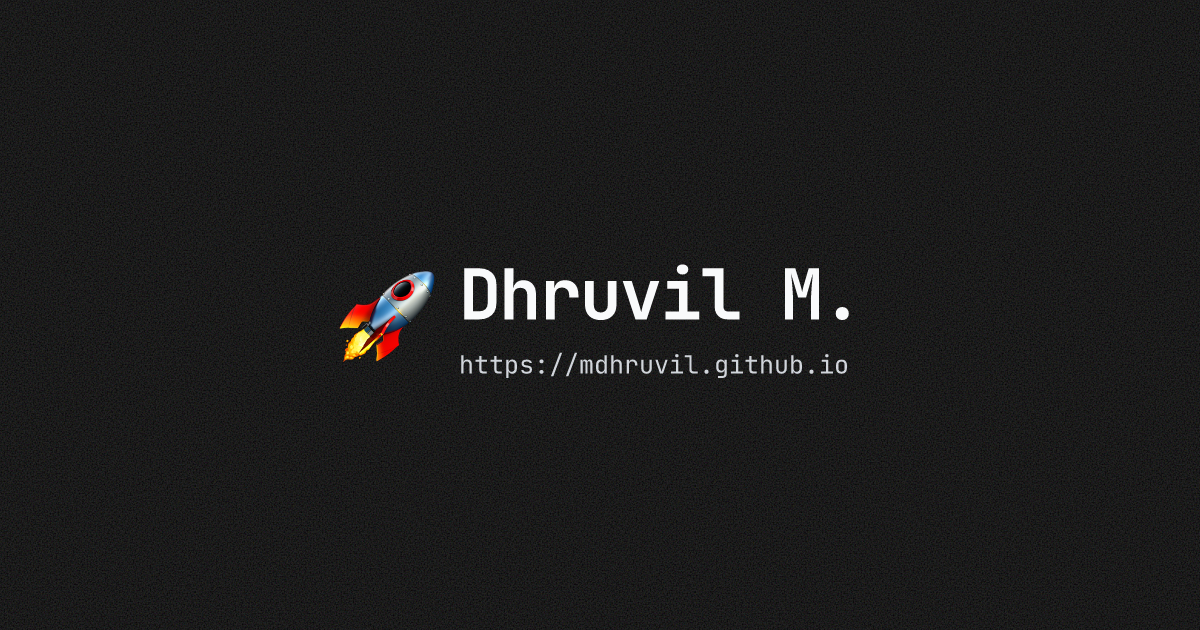
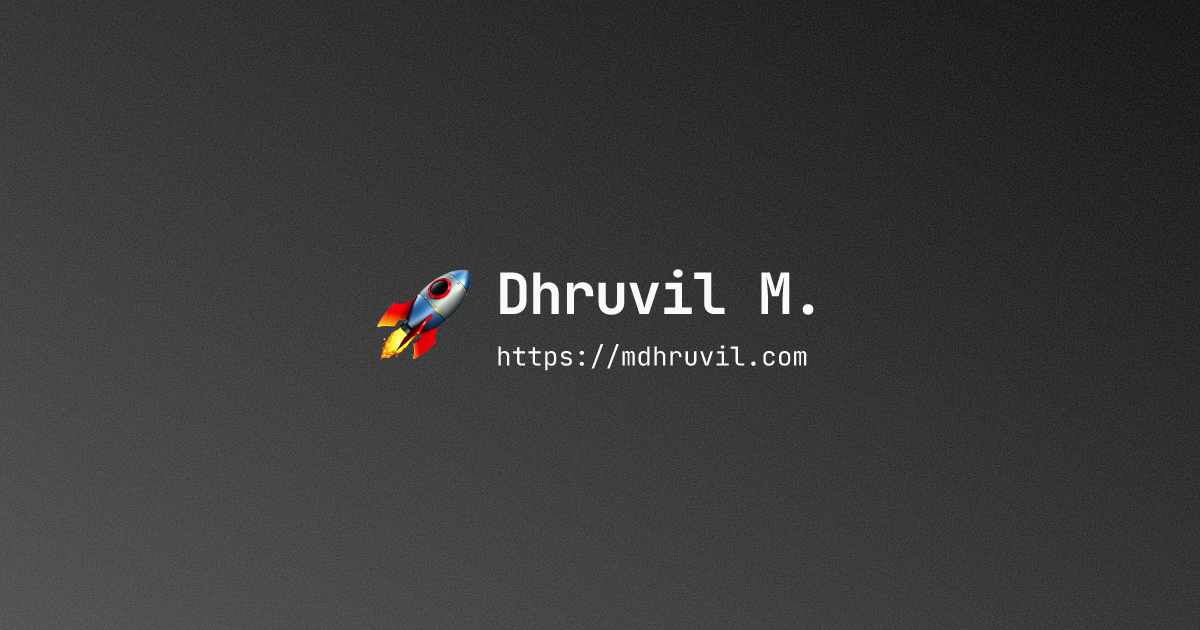
chore: rebrand to mdhruvil.com

diff --git a/src/pages/robots.txt.ts b/src/pages/robots.txt.ts
@@ -3,7 +3,7 @@ export async function GET() {
     `User-agent: *
 Allow: /
 
-Sitemap: https://mdhruvil.github.io/sitemap-index.xml
+Sitemap: https://mdhruvil.com/sitemap-index.xml
         `.trim(),
   );
 }

diff --git a/README.md b/README.md
@@ -4,12 +4,12 @@
 
 _A modern, minimalist portfolio website built with Astro_
 
-[![Live Website](https://img.shields.io/badge/🌐_Live_Website-mdhruvil.github.io-brightgreen?style=for-the-badge)](https://mdhruvil.github.io)
+[![Live Website](https://img.shields.io/badge/🌐_Live_Website-mdhruvil.com-brightgreen?style=for-the-badge)](https://mdhruvil.com)
 [![Built with Astro](https://img.shields.io/badge/Built%20with-Astro-FF5D01?style=for-the-badge&logo=astro&logoColor=white)](https://astro.build)
 [![TypeScript](https://img.shields.io/badge/TypeScript-007ACC?style=for-the-badge&logo=typescript&logoColor=white)](https://www.typescriptlang.org/)
 [![Tailwind CSS](https://img.shields.io/badge/Tailwind_CSS-38B2AC?style=for-the-badge&logo=tailwind-css&logoColor=white)](https://tailwindcss.com)
 
-![Portfolio Preview](https://mdhruvil.github.io/og.png)
+![Portfolio Preview](https://mdhruvil.com/og.png)
 
 </div>
 
@@ -98,8 +98,8 @@ Get up and running in less than 2 minutes:
 
 ```bash
 # 1⃣ Clone the repository
-git clone https://github.com/mdhruvil/mdhruvil.github.io.git
-cd mdhruvil.github.io
+git clone https://github.com/mdhruvil/mdhruvil.com.git
+cd mdhruvil.com
 
 # 2⃣ Install dependencies
 pnpm install
